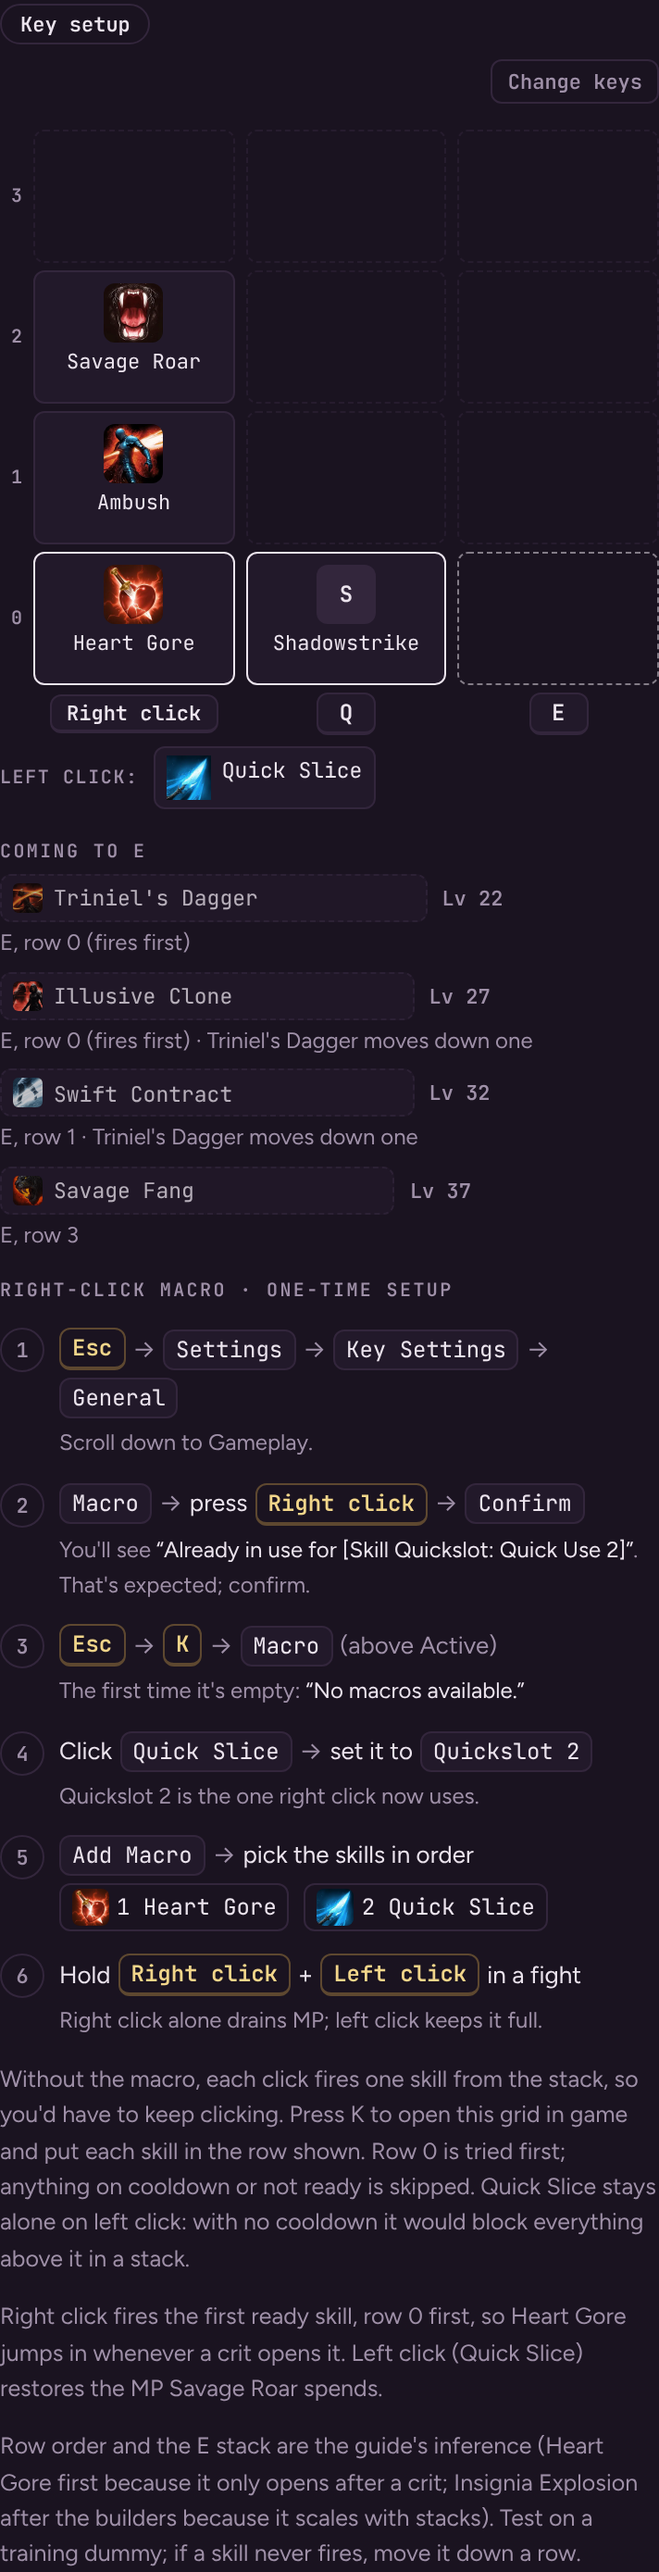
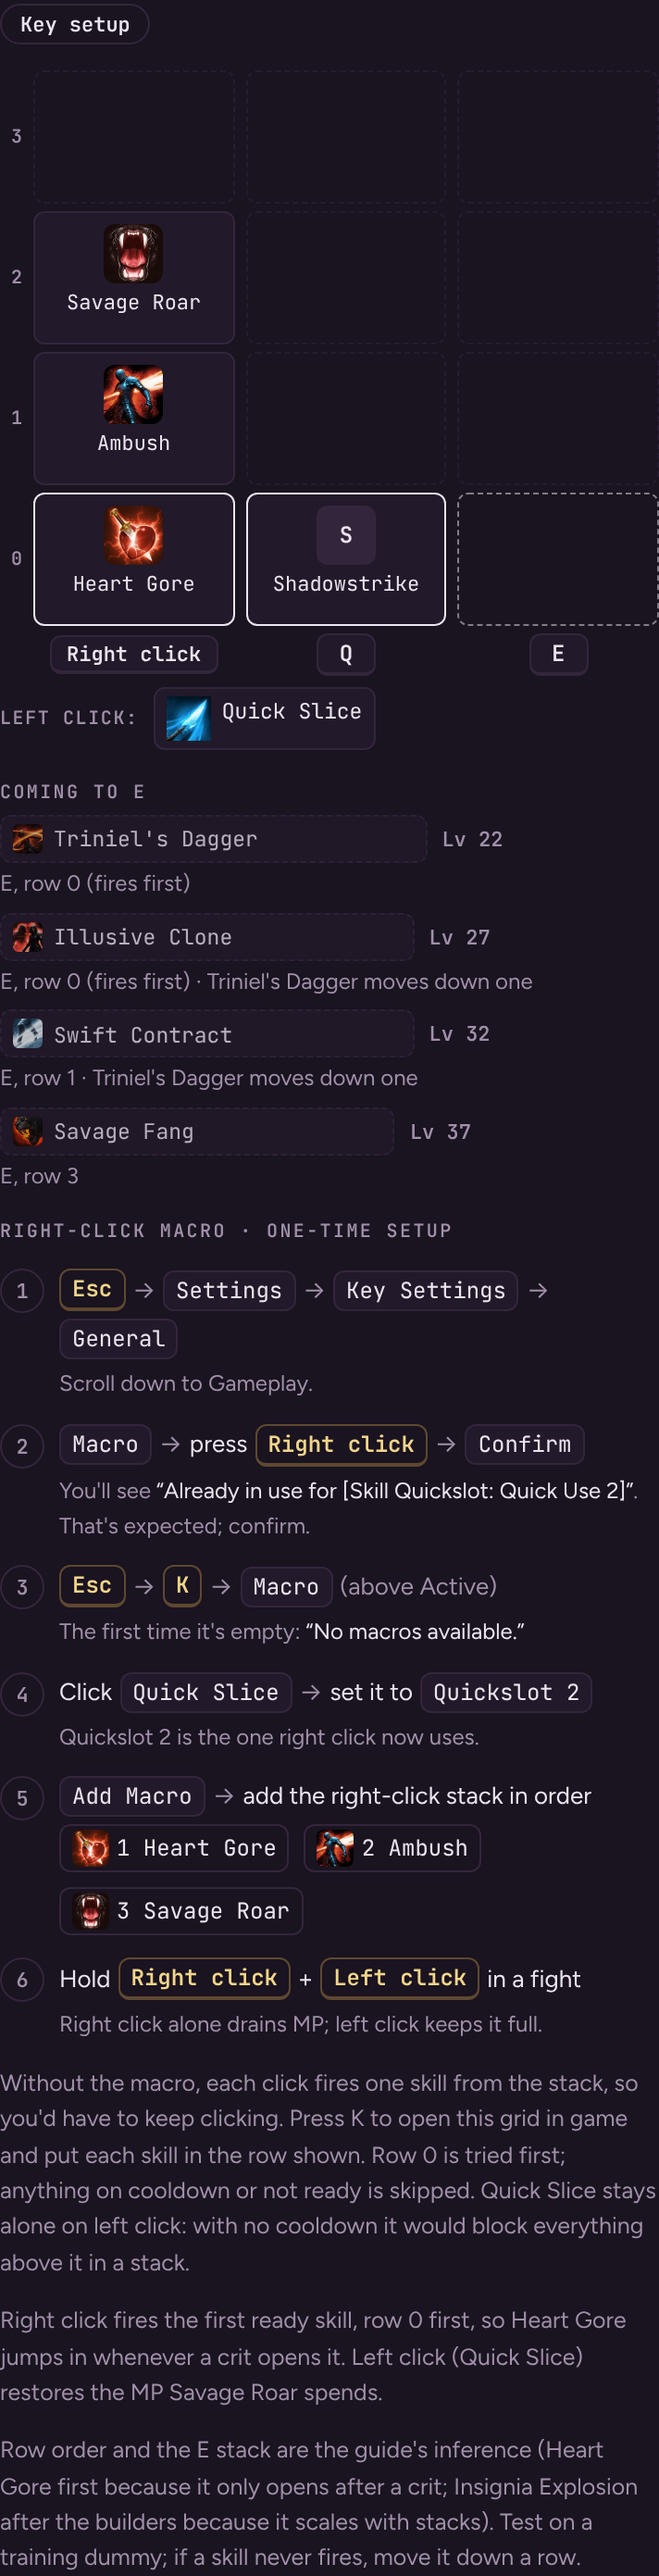
0.6.2 mockup: no key picker yet (#388 is 0.8), macro shows the right-click stack (owner 8:12 PM ET)
Removes the Change keys button (custom keys are their own 0.8 item; chips only avoid hard-coding). Step 5 shows
Heart Gore, Ambush, Savage Roar as the owner described the quickslot-2 stack; still pending the in-game check (#387).

Claude-Session: https://claude.ai/code/session_01K8AEp1D6fnpHKSP7HbTKan

diff --git a/docs/design/0.6.2-icons-locks-mockup.md b/docs/design/0.6.2-icons-locks-mockup.md
@@ -29,14 +29,15 @@ docs and screenshots only, nothing in `src/` changes.
 
 ## 1a. Key labels the player can change (k4, k5)
 
-Owner, 2026-10-18 8:11 PM ET: he plays Shadowstrike on E, not Q, and wants players to set their own keys. Walter plans
-that as its own item; this page only leaves room for it.
+Owner, 2026-10-18 8:11 PM ET: he plays Shadowstrike on E, not Q, and wants players to set their own keys (#388, a 0.8
+candidate). This page only leaves room for it.
 
 - Key labels move **under** their column as key chips, like the game's skill bar (owner's side-by-side: keys along the
   bottom, row 0 at the bottom, stacks growing up). Our row order already matches (3 on top, 0 at the bottom).
 - A chip fits up to about 12 characters ("Right click", "Shift+Q", "Mouse 4") on one line at 390 px. Longer key names
   are shortened by the item that makes keys changeable, not wrapped.
-- One quiet **Change keys** button above the grid opens the key picker. The picker itself is that item's mockup.
+- No key picker here: letting players set their own keys is a separate 0.8 candidate (#388). The chips only avoid a
+  layout that hard-codes key names, so that item can change the labels without moving anything.
 - Left click stays its own line under the grid.
 
 ## 1b. Right-click macro walk-through (k4, k5)
@@ -48,16 +49,18 @@ visualized". The three-item list in Key setup becomes a numbered walk-through:
 2. Macro → press `Right click` → Confirm. Says what you'll see: "Already in use for [Skill Quickslot: Quick Use 2]".
 3. `Esc` → `K` → Macro (above Active). Says the first time it's empty: "No macros available."
 4. Click Quick Slice → set it to Quickslot 2.
-5. Add Macro → pick the skills in order (each shown with its icon).
+5. Add Macro → add the right-click stack in order (each shown with its icon).
 6. Hold `Right click` + `Left click` in a fight.
 
 - Each step is a path of chips: keys in gold key chips (the unlock-line style), menu names in plain chips, arrows muted.
   One muted line under a step says what you'll see. Names and keys come from `data/` with the rest of the guide text.
 - **Drawn, not screenshots.** No game screenshots in the app (CLAUDE.md: no new game art without the owner's OK); the
   quoted game texts are short UI strings, and the only art is our existing skill icons.
-- **The content is the owner's steps and still needs an in-game check.** The macro's skills and order (step 5 shows
-  Heart Gore then Quick Slice, as in the owner's last screenshot) and step 4 are taken from the owner's message and
-  shots. They differ from today's guide text ("Step 1 = the right-click macro slot") and from today's Key setup (his bar
+- The Rotation (what to press when) and this macro block stay two separate blocks (owner, 8:12 PM ET: "rotation list
+  and macro list are separate").
+- **The content is the owner's steps and still needs an in-game check (#387).** Step 5 shows the stack the owner named
+  at 8:12 PM ET ("hold right click and all the skills in my quickslot 2 (heart gore, ambush, savage roar) fire
+  automatically"); his earlier screenshot showed Heart Gore then Quick Slice. Step 4 is from his message. They differ from today's guide text ("Step 1 = the right-click macro slot") and from today's Key setup (his bar
   stacks Heart Gore / Ambush / Savage Roar under T, with Quick Slice on the macro slot). Game Data Check confirms the
   steps before the build; the build uses whatever that check settles.
 
@@ -79,7 +82,7 @@ visualized". The three-item list in Key setup becomes a numbered walk-through:
 | Q1 | Locked-card shells in Basic too, on desktop only? This changes your 0.6 answer (owner-ok-S1 Q1: Advanced only). | Yes: it fills the gap you saw; phones stay as they are |
 | Q2 | Shells show "N levels to go" under "Opens at Lv X" for level unlocks? | Yes, as drawn |
 | Q3 | Key setup cells show the icon with the name under it (not icon only)? | Yes: icon to match the game, name for new skills and screen readers |
-| Q4 | Key labels as key chips under each column, like the game's bar, with a Change keys button? | Yes: matches what you see in game and leaves room for your own keys |
+| Q4 | Key labels as key chips under each column, like the game's bar? | Yes: matches what you see in game and leaves room for choosing your own keys later |
 | Q5 | The macro set-up as a numbered walk-through drawn in the app (no game screenshots)? | Yes: steps checked in game first |
 
 Type, in the Release Planner (Walter) thread: `0.6.2 icons and locks OK: as recommended` (or your changes to Q1–Q5).
